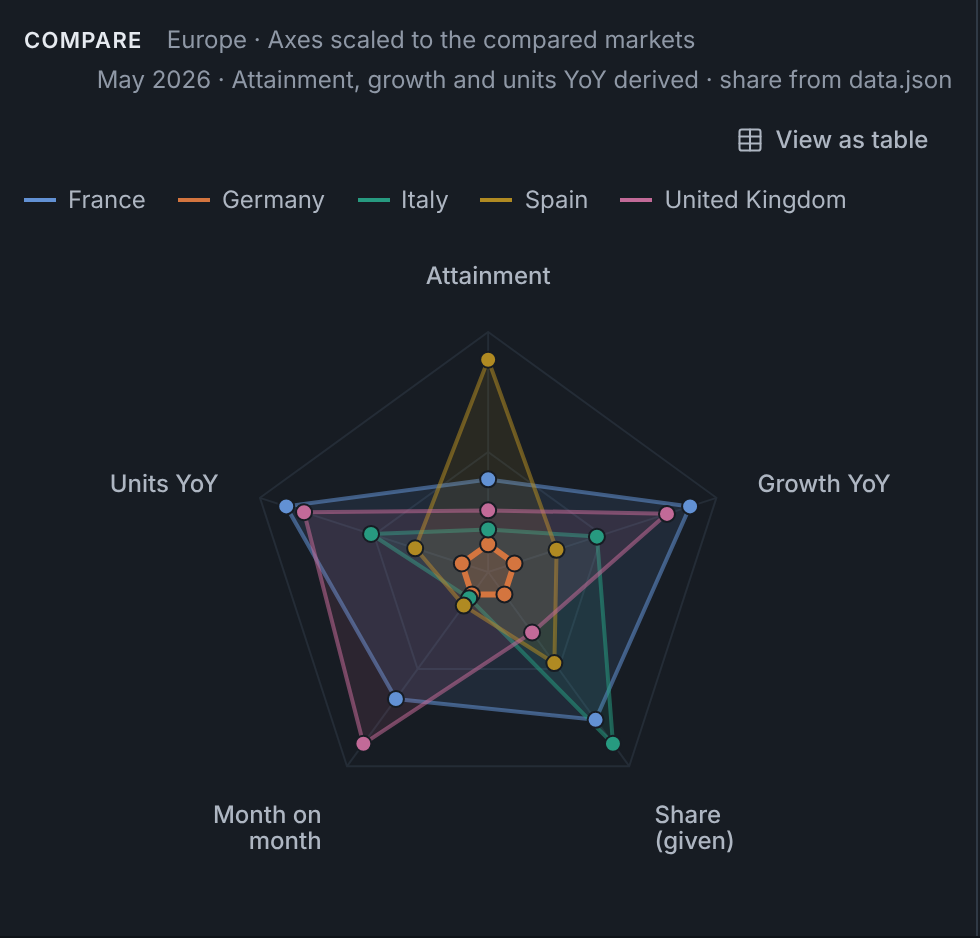
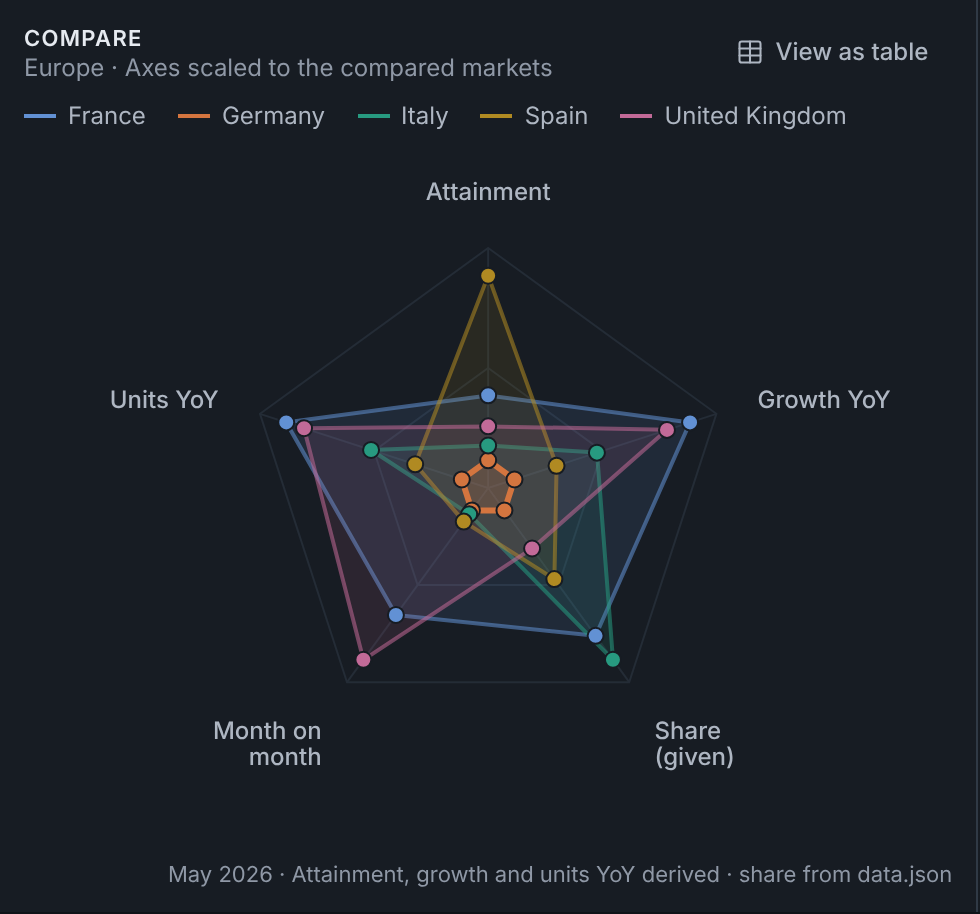
fix(analyst): provenance caption bottom-right of the card, toggle top-aligned with the title

diff --git a/src/features/analyst/Sheet.tsx b/src/features/analyst/Sheet.tsx
@@ -28,8 +28,9 @@ export function Sheet({
 }
 
 /**
- * One ruled section of the sheet: eyebrow title, a muted subtitle on the same line, the provenance caption
- * and actions on the right. The eyebrow and subtitle name the region landmark.
+ * One ruled section of the sheet: eyebrow title and a muted subtitle on the same line, the actions (the
+ * View as table toggle) on the right, top-aligned with the eyebrow. The provenance caption sits bottom-right of
+ * the card body, never in the title row. The eyebrow and subtitle name the region landmark.
  */
 export function SheetSection({
   eyebrow,
@@ -71,11 +72,11 @@ export function SheetSection({
     >
       <div
         data-slot="card-header"
-        className="flex flex-wrap items-baseline justify-between gap-x-4 gap-y-1"
+        className="flex flex-wrap items-start justify-between gap-x-4 gap-y-1 md:flex-nowrap"
       >
         <h3
           {...(pageHeading ? pageHeadingProps : {})}
-          className="flex min-w-0 flex-wrap items-baseline gap-x-3"
+          className="flex min-w-0 flex-wrap items-baseline gap-x-3 md:flex-1"
         >
           <Eyebrow id={id} className={allProducts ? "text-ink-2" : "text-ink"}>
             {eyebrow}
@@ -89,19 +90,19 @@ export function SheetSection({
             </span>
           ) : null}
         </h3>
-        {caption || actions ? (
-          <div className="flex flex-wrap items-center justify-end gap-x-3 gap-y-2">
-            {caption ? (
-              <p className="text-[length:var(--text-label)] leading-[var(--text-label-lh)] text-ink-muted">
-                {caption}
-              </p>
-            ) : null}
+        {actions ? (
+          <div className="flex flex-wrap items-start justify-end gap-x-3 gap-y-2 md:shrink-0">
             {actions}
           </div>
         ) : null}
       </div>
       {legend}
       {children}
+      {caption ? (
+        <p className="mt-2 self-end text-right text-[length:var(--text-caption)] leading-[var(--text-caption-lh)] text-ink-muted">
+          {caption}
+        </p>
+      ) : null}
     </section>
   );
 }

diff --git a/tests/e2e/charts.spec.ts b/tests/e2e/charts.spec.ts
@@ -132,3 +132,33 @@ test("series legends sit on their own row under the title at every width, scale 
     expect(sc.y - (g.y + g.height)).toBeGreaterThanOrEqual(11);
   }
 });
+
+for (const [width, rail] of [
+  [1440, "with the rail open"],
+  [1280, ""],
+] as const) {
+  test(
+    `the radar toggle is top-aligned with the title and the caption sits bottom-right ${rail || "at 1280"}`.trim(),
+    async ({ page }) => {
+      await page.setViewportSize({ width, height: 900 });
+      await open(page, `${EUROPE}&market=de`);
+      const region = card(page, /^Compare/);
+      const header = region.locator('[data-slot="card-header"]');
+      const eyebrow = header.getByRole("heading").locator("span").first();
+      const toggle = header.getByRole("button", { name: /^View as table/ });
+      const caption = region.getByText(/derived · share from data\.json/);
+      const e = await eyebrow.boundingBox();
+      const t = await toggle.boundingBox();
+      const c = await caption.boundingBox();
+      const r = await region.boundingBox();
+      const h = await header.boundingBox();
+      if (!e || !t || !c || !r || !h) throw new Error("radar card not laid out");
+      // The toggle's top matches the eyebrow's line, give or take the button's own padding.
+      expect(Math.abs(t.y - h.y)).toBeLessThanOrEqual(6);
+      expect(Math.abs(e.y - h.y)).toBeLessThanOrEqual(6);
+      // The caption is below the chart, flush with the card's right padding, and not in the title row.
+      expect(c.y).toBeGreaterThanOrEqual(h.y + h.height);
+      expect(r.x + r.width - (c.x + c.width)).toBeLessThanOrEqual(40);
+    },
+  );
+}

diff --git a/docs/design-system.md b/docs/design-system.md
@@ -246,7 +246,7 @@ Seven rules so that every new card looks like its siblings. Rules 2, 3 and 4 are
 2. **Eyebrows never wrap.** 11 px, 0.06 em, 600, uppercase, `white-space: nowrap`. If it does not fit, shorten the words (`NEEDS ATTENTION`, not `MARKETS NEEDING ATTENTION`), never the size. One `Eyebrow` component.
 3. **One header grammar for every card.** Serif title, muted subtitle on the next line, provenance caption and actions right-aligned on the title row, same height on every card. One `CardHeader` component; no card builds its own header.
 4. **Every number is tabular.** `font-variant-numeric: tabular-nums lining-nums` on tiles, tables, tooltips, chips and bars (`.num`), so columns align on the decimal and scanning down is comparing. KPI headlines and the verdict are serif 600 tabular; everything else is sans.
-5. **Captions right-align to the card edge.** `Source · data.json` and `Derived · …` sit on the title row's right edge or the card's bottom-right, never floating mid-card. Two kinds of legend, each in one fixed place at every width. A series legend (what a line or polygon means: time series, radar) is its own row directly under the card's title and subtitle, never in the title row. A scale legend (the colour bins that key values: heat map, map) sits centred under the chart it keys, inside the card.
+5. **Captions right-align to the card edge.** On the Analyst sheet the title row holds the eyebrow, the subtitle and the `View as table` toggle (top-aligned with the eyebrow; the subtitle may wrap without moving it). `Source · data.json` and `Derived · …` sit bottom-right of the card body, 8 px under the chart or table, 11/14 px `--ink-muted`, never in the title row and never floating mid-card. Two kinds of legend, each in one fixed place at every width. A series legend (what a line or polygon means: time series, radar) is its own row directly under the card's title and subtitle, never in the title row. A scale legend (the colour bins that key values: heat map, map) sits centred under the chart it keys, inside the card.
 6. **Vertical rhythm on an 8 px grid.** 24 px between sections on Overview, 16 px on Analyst (`--gap-section`); inside a section multiples of 4; density is a token, never an ad hoc margin.
 7. **Empty states: one sentence, one action.** `No alert rules yet.` + `Add a rule`. No illustration, no second paragraph.
 
